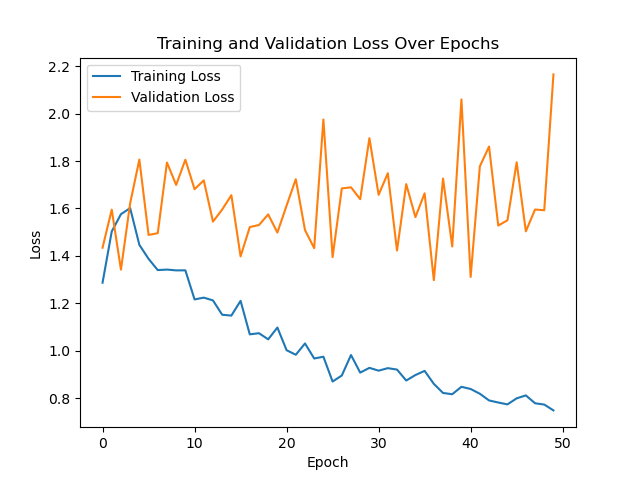
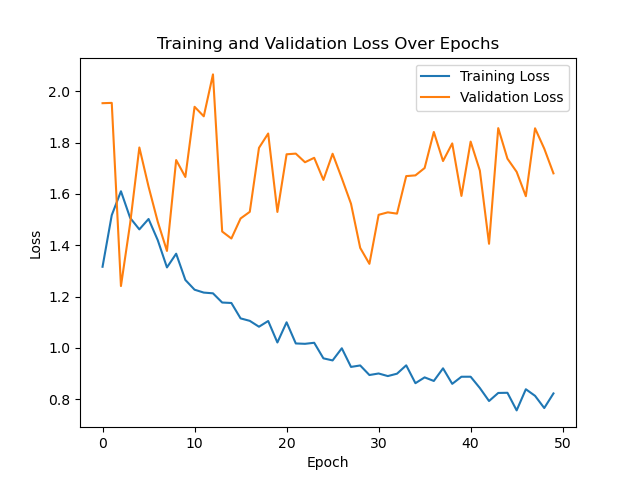
v2_angleichen für laptop

diff --git a/amphibians/dataset_class.py b/amphibians/dataset_class.py
@@ -1,5 +1,5 @@
 import os
-import xml.etree.ElementTree as ET
+import json
 import torch
 from torch.utils.data import Dataset
 from PIL import Image
@@ -18,31 +18,62 @@ class AmphibianDataset(Dataset):
         print(f"Found {len(self.img_paths)} images in {img_dir}")
 
     def _load_annotations(self):
-        tree = ET.parse(self.annotations_file)
-        root = tree.getroot()
+        """
+        Load annotations from the new JSON file structure.
+        Example entry in the JSON:
+        [
+          {
+            "image_number": 1,
+            "image_path": "abc.jpg",
+            "bboxes": [
+              {
+                "class_label": 2,
+                "bbox": {
+                  "x_min": 290.79,
+                  "y_min": 199.87,
+                  "x_max": 700.0,
+                  "y_max": 631.58
+                }
+              }
+            ]
+          },
+          ...
+        ]
+        """
+        with open(self.annotations_file, 'r') as f:
+            data = json.load(f)
 
+        # We'll store annotations in a dict: { "filename.jpg": [ { "label": int, "bbox": [x_min, y_min, x_max, y_max] }, ... ] }
         annotations = {}
-        for image in root.findall('image'):
-            img_name = image.get('name')
+
+        for entry in data:
+            # Extract the basename in case the JSON path includes directories
+            img_name = os.path.basename(entry["image_path"])
+
             boxes = []
-            for box in image.findall('box'):
-                label = box.get('label')
-                xtl = float(box.get('xtl'))
-                ytl = float(box.get('ytl'))
-                xbr = float(box.get('xbr'))
-                ybr = float(box.get('ybr'))
+            for bbox_info in entry["bboxes"]:
+                class_label = bbox_info["class_label"]  # This is an integer in your JSON
+                x_min = bbox_info["bbox"]["x_min"]
+                y_min = bbox_info["bbox"]["y_min"]
+                x_max = bbox_info["bbox"]["x_max"]
+                y_max = bbox_info["bbox"]["y_max"]
+
                 boxes.append({
-                    'label': label,
-                    'bbox': [xtl, ytl, xbr, ybr]
+                    "label": class_label,  # We'll store the integer label directly
+                    "bbox": [x_min, y_min, x_max, y_max]
                 })
+
             annotations[img_name] = boxes
+
         return annotations
 
     def _get_img_paths(self):
+        # Optionally include '.jpeg' if needed
+        valid_extensions = ('.jpg', '.png', '.jpeg')
         img_paths = []
         for root, _, files in os.walk(self.img_dir):
             for file in files:
-                if file.endswith(('.jpg', '.png')):
+                if file.lower().endswith(valid_extensions):
                     img_paths.append(os.path.join(root, file))
         return img_paths
 
@@ -52,39 +83,44 @@ class AmphibianDataset(Dataset):
     def __getitem__(self, idx):
         img_path = self.img_paths[idx]
         img_filename = os.path.basename(img_path)
-        
-        # Find the corresponding annotation
+
+        # Retrieve corresponding annotation
         ann = self.annotations.get(img_filename, [])
-        
+
         image = Image.open(img_path).convert("RGB")
-        
+
         boxes = []
         labels = []
         for bbox_info in ann:
             bbox = bbox_info['bbox']
             boxes.append(bbox)
-            # Convert label name to a label index
-            label_name = bbox_info['label']
-            label_idx = [k for k, v in label_mapping.items() if v == label_name]
-            if label_idx:
-                labels.append(label_idx[0])
-        
+            
+            # Here bbox_info['label'] is already an integer (class_label).
+            # You can either store it directly as `labels.append(bbox_info['label'])`
+            # or map it to a name via label_mapping if needed.
+            class_label_idx = bbox_info['label']
+            labels.append(class_label_idx)
+
         boxes = torch.as_tensor(boxes, dtype=torch.float32)
         labels = torch.as_tensor(labels, dtype=torch.int64)
-        
-        target = {}
-        target["boxes"] = boxes
-        target["labels"] = labels
-        
-        # Apply augmentations
+
+        target = {
+            "boxes": boxes,
+            "labels": labels
+        }
+
+        # Apply any augmentation transforms that expect image, target
         if self.augmentations:
             image, target = self.augmentations(image, target)
-        
+
+        # Apply standard torchvision transforms
         if self.transforms is not None:
             image = self.transforms(image)
-        
+
         return image, target
 
+
+# Keep your label mapping if you still need to interpret class_label -> species name
 label_mapping = {
     1: 'feuersalamander',
     2: 'alpensalamander',
@@ -104,6 +140,8 @@ label_mapping = {
     16: 'wasserfrosch'
 }
 
+
+# Your augmentation/transforms remain the same
 class Compose:
     def __init__(self, transforms):
         self.transforms = transforms
@@ -113,6 +151,7 @@ class Compose:
             image, target = t(image, target)
         return image, target
 
+
 class RandomHorizontalFlip:
     def __init__(self, probability=0.5):
         self.probability = probability
@@ -120,11 +159,12 @@ class RandomHorizontalFlip:
     def __call__(self, image, target):
         if random.random() < self.probability:
             image = T.functional.hflip(image)
-            w, h = image.size
+            w, _ = image.size
             boxes = target['boxes']
             boxes[:, [0, 2]] = w - boxes[:, [2, 0]]
             target['boxes'] = boxes
         return image, target
+
 
 class RandomVerticalFlip:
     def __init__(self, probability=0.5):
@@ -133,11 +173,12 @@ class RandomVerticalFlip:
     def __call__(self, image, target):
         if random.random() < self.probability:
             image = T.functional.vflip(image)
-            w, h = image.size
+            _, h = image.size
             boxes = target['boxes']
             boxes[:, [1, 3]] = h - boxes[:, [3, 1]]
             target['boxes'] = boxes
         return image, target
+
 
 class RandomRotation:
     def __init__(self, degrees):
@@ -148,26 +189,42 @@ class RandomRotation:
         image = T.functional.rotate(image, angle)
         w, h = image.size
         boxes = target['boxes']
-        cx, cy = (boxes[:, 0] + boxes[:, 2]) / 2, (boxes[:, 1] + boxes[:, 3]) / 2
+
+        cx = (boxes[:, 0] + boxes[:, 2]) / 2
+        cy = (boxes[:, 1] + boxes[:, 3]) / 2
+
         new_boxes = []
-        angle_rad = angle * math.pi / 180  # Convert angle to radians
+        angle_rad = math.radians(angle)
         cos_angle = math.cos(angle_rad)
         sin_angle = math.sin(angle_rad)
-        for i in range(len(boxes)):
-            x1, y1, x2, y2 = boxes[i]
+
+        for i, box in enumerate(boxes):
+            x1, y1, x2, y2 = box
             points = torch.tensor([
                 [x1, y1],
                 [x1, y2],
                 [x2, y1],
                 [x2, y2]
             ], dtype=torch.float32)
-            points = points - torch.tensor([[cx[i], cy[i]]])
-            theta = torch.tensor([[cos_angle, -sin_angle],
-                                  [sin_angle, cos_angle]])
-            new_points = torch.matmul(points, theta) + torch.tensor([[cx[i], cy[i]]])
-            new_boxes.append([
-                new_points[:, 0].min().item(), new_points[:, 1].min().item(),
-                new_points[:, 0].max().item(), new_points[:, 1].max().item()
-            ])
+
+            # Translate so the center of the bbox is the origin
+            points -= torch.tensor([cx[i], cy[i]])
+
+            # Rotate
+            rotation_matrix = torch.tensor([[cos_angle, -sin_angle],
+                                            [sin_angle,  cos_angle]])
+            rotated = torch.matmul(points, rotation_matrix)
+
+            # Translate back
+            rotated += torch.tensor([cx[i], cy[i]])
+
+            # Compute new bounding box
+            x_min = rotated[:, 0].min().item()
+            y_min = rotated[:, 1].min().item()
+            x_max = rotated[:, 0].max().item()
+            y_max = rotated[:, 1].max().item()
+
+            new_boxes.append([x_min, y_min, x_max, y_max])
+
         target['boxes'] = torch.tensor(new_boxes, dtype=torch.float32)
         return image, target

diff --git a/amphibians/frcnn_training.py b/amphibians/frcnn_training.py
@@ -14,7 +14,7 @@ def collate_fn(batch):
     return tuple(zip(*batch))
 
 def get_model(num_classes):
-    model = fasterrcnn_resnet50_fpn_v2()
+    model = fasterrcnn_mobilenet_v3_large_320_fpn(weights=FasterRCNN_MobileNet_V3_Large_320_FPN_Weights.COCO_V1)
     in_features = model.roi_heads.box_predictor.cls_score.in_features
     model.roi_heads.box_predictor = FastRCNNPredictor(in_features, num_classes)
     return model
@@ -94,20 +94,20 @@ def main(pretrained_model_path):
     ])
 
     train_dataset = AmphibianDataset(
-        annotations_file='amphibians/annotations.xml',
+        annotations_file='amphibians/amphibia_annotations.json',
         img_dir='datasets/amphibia/training',
         transforms=transforms,
         augmentations=augmentations
     )
 
     val_dataset = AmphibianDataset(
-        annotations_file='amphibians/annotations.xml',
+        annotations_file='amphibians/amphibia_annotations.json',
         img_dir='datasets/amphibia/validation',
         transforms=transforms
     )
 
-    train_loader = DataLoader(train_dataset, batch_size=1, shuffle=True, num_workers=4, collate_fn=collate_fn)
-    val_loader = DataLoader(val_dataset, batch_size=1, shuffle=False, num_workers=4, collate_fn=collate_fn)
+    train_loader = DataLoader(train_dataset, batch_size=8, shuffle=True, num_workers=4, collate_fn=collate_fn)
+    val_loader = DataLoader(val_dataset, batch_size=8, shuffle=False, num_workers=4, collate_fn=collate_fn)
 
    
     model = get_model(num_classes=17)
@@ -121,7 +121,7 @@ def main(pretrained_model_path):
         model.load_state_dict(torch.load(pretrained_model_path))
 
     
-    num_epochs = 50
+    num_epochs = 10
     save_dir = 'amphibians/models/'
 
     if not os.path.exists(save_dir):
